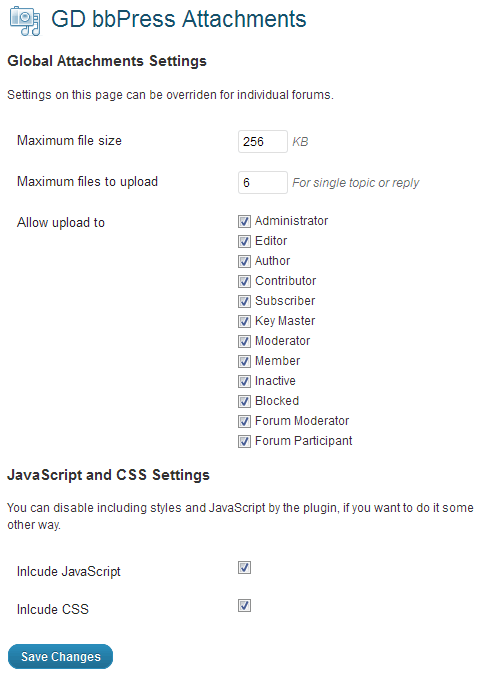
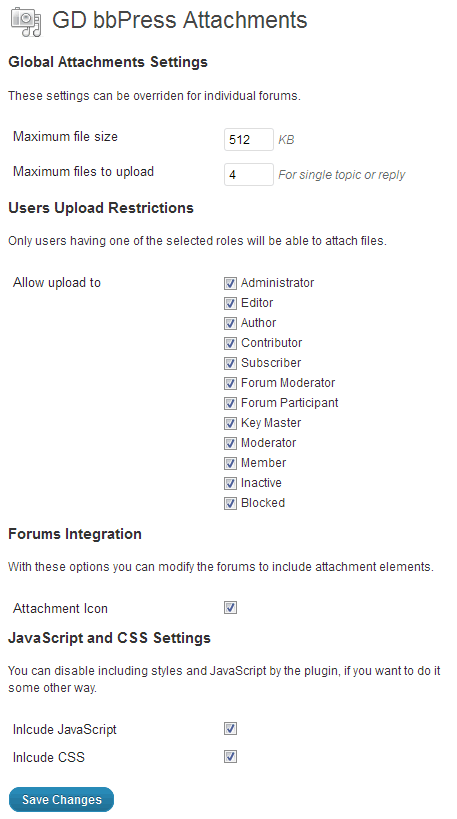
git-svn-id: https://plugins.svn.wordpress.org/gd-bbpress-attachments/trunk@440443 b8457f37-d9ea-0310-8a92-e5e31aec5664

Changed region(s): [[0.0, 0.2482, 0.9803, 0.9926], [0.0, 0.0, 0.8884, 0.2171]]

diff --git a/css/gd-bbpress-attachments.css b/css/gd-bbpress-attachments.css
@@ -7,3 +7,12 @@
 .bbp-attachments h6 {
     margin: 0 0 5px;
 }
+
+.bbp-attachments-count {
+    background: transparent url(../gfx/icons.png);
+    display: inline-block;
+    width: 16px;
+    height: 16px;
+    float: left;
+    margin-right: 4px;
+}

diff --git a/css/gd-bbpress-attachments_admin.css b/css/gd-bbpress-attachments_admin.css
@@ -26,3 +26,12 @@
     width: 460px;
     float: left;
 }
+
+.d4p-settings .form-table th {
+    padding: 5px;
+}
+
+.d4p-settings .form-table td {
+    vertical-align: middle;
+    padding: 5px;
+}

diff --git a/gd-bbpress-attachments.php b/gd-bbpress-attachments.php
@@ -4,7 +4,7 @@
 Plugin Name: GD bbPress Attachments
 Plugin URI: http://www.dev4press.com/plugin/gd-bbpress-attachments/
 Description: Implements attachments upload to the topics and replies in bbPress plugin through media library and adds additional forum based controls.
-Version: 1.0.3
+Version: 1.0.4
 Author: Milan Petrovic
 Author URI: http://www.dev4press.com/
 
@@ -115,6 +115,18 @@ class gdbbPressAttachments {
             add_action("bbp_new_topic", array(&$this, "save_topic"), 10, 4);
             add_action("bbp_get_reply_content", array(&$this, "embed_attachments"), 10, 2);
             add_action("bbp_get_topic_content", array(&$this, "embed_attachments"), 10, 2);
+
+            if ($this->o["attachment_icon"] == 1) {
+                add_action("bbp_theme_before_topic_title", array(&$this, "show_attachments_icon"));
+            }
+        }
+    }
+
+    public function show_attachments_icon() {
+        $topic_id = bbp_get_topic_id();
+        $count = d4p_topic_attachments_count($topic_id, true);
+        if ($count > 0) {
+            echo '<span class="bbp-attachments-count" title="'.$count.' '._n("attachment", "attachments", $count, "gd-bbpress-attachments").'"></span>';
         }
     }
 
@@ -247,6 +259,7 @@ class gdbbPressAttachments {
             $this->o["max_file_size"] = absint(intval($_POST["max_file_size"]));
             $this->o["max_to_upload"] = absint(intval($_POST["max_to_upload"]));
             $this->o["roles_to_upload"] = (array)$_POST["roles_to_upload"];
+            $this->o["attachment_icon"] = isset($_POST["attachment_icon"]) ? 1 : 0;
             $this->o["include_js"] = isset($_POST["include_js"]) ? 1 : 0;
             $this->o["include_css"] = isset($_POST["include_css"]) ? 1 : 0;
 
@@ -271,6 +284,7 @@ class gdbbPressAttachments {
                 /*<![CDATA[*/
                 .bbp-attachments { border-top: 1px solid #dddddd; margin-top: 20px; padding: 5px; }
                 .bbp-attachments h6 { margin: 0 0 5px; }
+                .bbp-attachments-count { background: transparent url(<?php echo GDBBPRESSATTACHMENTS_URL; ?>gfx/icons.png); display: inline-block; width: 16px; height: 16px; float: left; margin-right: 4px; }
                 /*]]>*/
             </style>
         <?php } ?>

diff --git a/forms/attachments.php b/forms/attachments.php
@@ -51,6 +51,18 @@
                 </tr>
             </tbody>
         </table>
+        <h3><?php _e("Forums Integration", "gd-bbpress-attachments"); ?></h3>
+        <p><?php _e("With these options you can modify the forums to include attachment elements.", "gd-bbpress-attachments"); ?></p>
+        <table class="form-table">
+            <tbody>
+                <tr valign="top">
+                    <th scope="row"><label for="attachment_icon"><?php _e("Attachment Icon", "gd-bbpress-attachments"); ?></label></th>
+                    <td>
+                        <input type="checkbox" <?php if ($options["attachment_icon"] == 1) echo " checked"; ?> name="attachment_icon" />
+                    </td>
+                </tr>
+            </tbody>
+        </table>
         <h3><?php _e("JavaScript and CSS Settings", "gd-bbpress-attachments"); ?></h3>
         <p><?php _e("You can disable including styles and JavaScript by the plugin, if you want to do it some other way.", "gd-bbpress-attachments"); ?></p>
         <table class="form-table">
@@ -100,6 +112,7 @@
         <a target="_blank" href="http://www.facebook.com/dev4press">Dev4Press Facebook <?php _e("Fan Page", "gd-bbpress-attachments"); ?></a>
         <h3><?php _e("Dev4Press Premium Plugins And Themes", "gd-bbpress-attachments"); ?></h3>
         <a target="_blank" href="http://www.dev4press.com/gd-press-tools/">GD Press Tools</a><br/>
+        <a target="_blank" href="http://www.dev4press.com/gd-products-center/">GD Products Center</a><br/>
         <a target="_blank" href="http://www.dev4press.com/gd-taxonomies-tools/">GD Custom Posts And Taxonomies Tools</a><br/>
         <a target="_blank" href="http://www.gdaffiliatecenter.com/">GD Affiliate Center</a><br/>
         <a target="_blank" href="http://www.dev4press.com/plugins/gd-azon-fusion/">GD aZon FUSION</a><br/>

diff --git a/code/defaults.php b/code/defaults.php
@@ -2,18 +2,19 @@
 
 class gdbbPressAttachments_Defaults {
     var $default_options = array(
-        "version" => "1.0.3",
-        "date" => "2011.09.09.",
+        "version" => "1.0.4",
+        "date" => "2011.09.19.",
         "status" => "Stable",
         "product_id" => "gd-bbpress-attachments",
         "edition" => "free",
         "revision" => 0,
-        "build" => 552,
+        "build" => 564,
         "include_js" => 1,
         "include_css" => 1,
         "max_file_size" => 512,
         "max_to_upload" => 4,
-        "roles_to_upload" => null
+        "roles_to_upload" => null,
+        "attachment_icon" => 1
     );
 
     function __construct() { }

diff --git a/code/functions.php b/code/functions.php
@@ -9,4 +9,17 @@ function d4p_get_post_attachments($post_id) {
     return get_posts($args);
 }
 
+function d4p_topic_attachments_count($topic_id, $include_replies = false) {
+    global $wpdb;
+
+    $sql = "select ID from ".$wpdb->posts." where post_parent = ".$topic_id." and post_type = 'attachment'";
+
+    if ($include_replies) {
+        $sql = "(".$sql.") union (select ID from ".$wpdb->posts." where post_parent in (select ID from ".$wpdb->posts." where post_parent = ".$topic_id." and post_type = 'reply') and post_type = 'attachment')";
+    }
+
+    $attachments = $wpdb->get_results($sql);
+    return count($attachments);
+}
+
 ?>

diff --git a/code/build.php b/code/build.php
@@ -1,1 +1,1 @@
-<?php $build = 552; ?>
+<?php $build = 564; ?>
